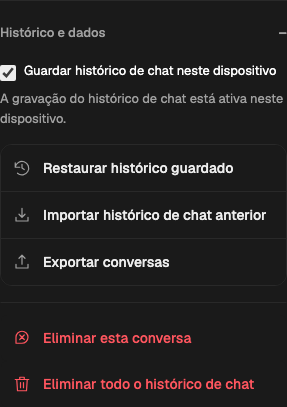
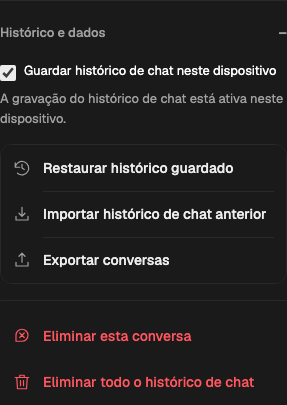
fix(assistant): inset history command separators to the label rail

diff --git a/styles/assistant.css b/styles/assistant.css
@@ -229,6 +229,7 @@ body.agent-panel-resizing #app iframe {
   font-weight: var(--ran-text-label-weight);
 }
 .agent-history-transfer-actions button {
+  position: relative;
   border-radius: 0;
 }
 .agent-history-transfer-actions button:first-child {
@@ -239,8 +240,15 @@ body.agent-panel-resizing #app iframe {
   border-end-start-radius: calc(var(--ran-radius-md) - 1px);
   border-end-end-radius: calc(var(--ran-radius-md) - 1px);
 }
-.agent-history-transfer-actions button + button {
+.agent-history-transfer-actions button + button::before {
+  content: '';
+  position: absolute;
+  inset-block-start: 0;
+  /* Match the label column: row padding + icon viewport + icon/label gap. */
+  inset-inline-start: calc(var(--ran-space-3) + var(--ran-size-2) + var(--ran-space-3));
+  inset-inline-end: var(--ran-space-3);
   border-block-start: 1px solid var(--ran-color-border-secondary);
+  pointer-events: none;
 }
 .agent-history-actions button svg {
   flex: 0 0 var(--ran-size-2);

diff --git a/docs/explorations/2026-10-20-assistant-layout-acceptance.md b/docs/explorations/2026-10-20-assistant-layout-acceptance.md
@@ -123,3 +123,11 @@ Follow-up verification:
   code review found no actionable issues; light/dark and narrow screenshots were inspected.
 - The companion ran guidance now explicitly supports grouped command affordances and
   separates destructive intent from destructive confirmation without changing library defaults.
+
+Border refinement after visual feedback keeps the 1px rounded outer frame and starts
+internal separators at the label column, leaving the icon column uninterrupted. Lines
+end at the trailing row inset and use the existing secondary border role. Decorative
+pseudo-elements do not intercept input, change the row target or add another button box.
+Light/dark and narrow renders were inspected and the three Chromium history-action
+cases passed again without retries, including translated labels, touch targets, keyboard
+focus, hover/press/disabled states and confirmation/cancellation. No runtime logic changed.

diff --git a/docs/design-system.md b/docs/design-system.md
@@ -261,6 +261,10 @@ is a full-width native button row with an 18px decorative icon, a 14px label and
 44px target. The frame stays on the content rail; icons and labels align within it, including
 the separate deletion group. Long translations wrap inside their row rather than changing
 the number of columns. Existing monochrome roles also style the save-history checkbox.
+The 1px outer frame defines the group. Internal separators begin at the label column
+(row padding + icon viewport + gap) and end at the trailing row inset; they do not cut
+through the icon column or divide the surface into fully boxed cells. Separators are
+decorative and never intercept pointer input or alter the full-row target.
 
 Deletion commands use quiet danger text and icons on the panel background, separated from
 transfer actions by space and a rule. Only the explicit confirmation has a solid danger fill.
